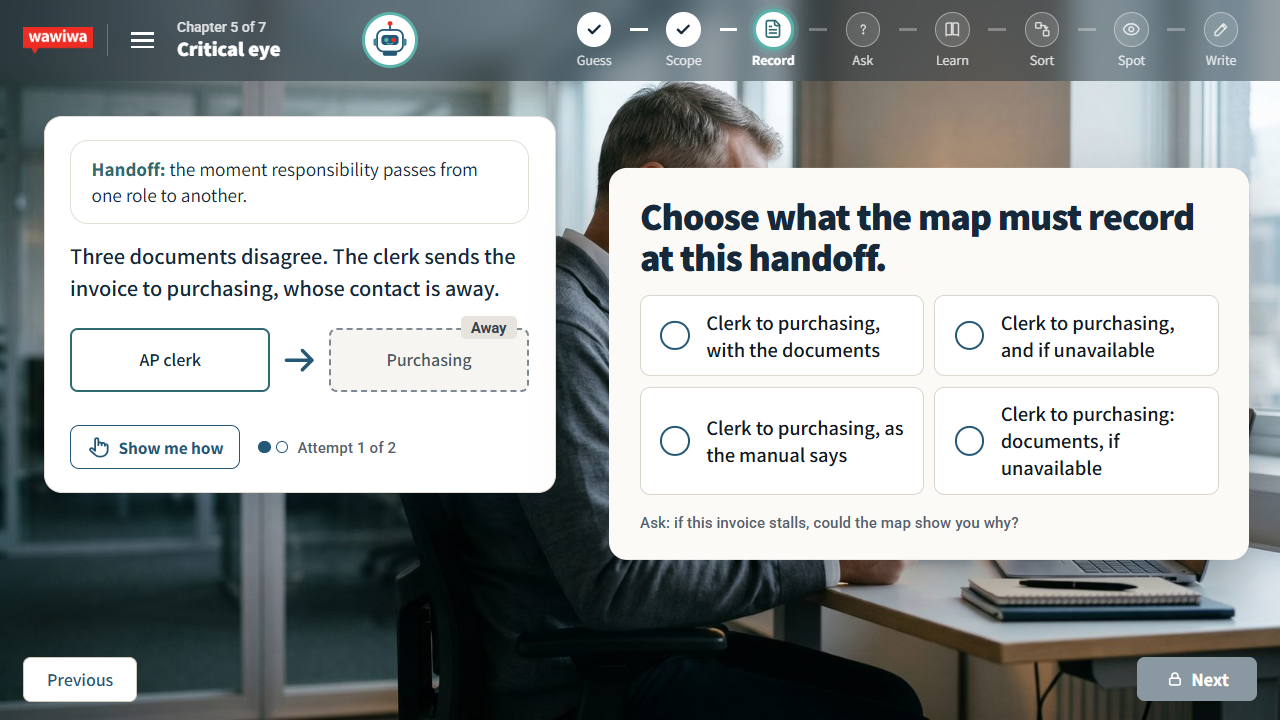
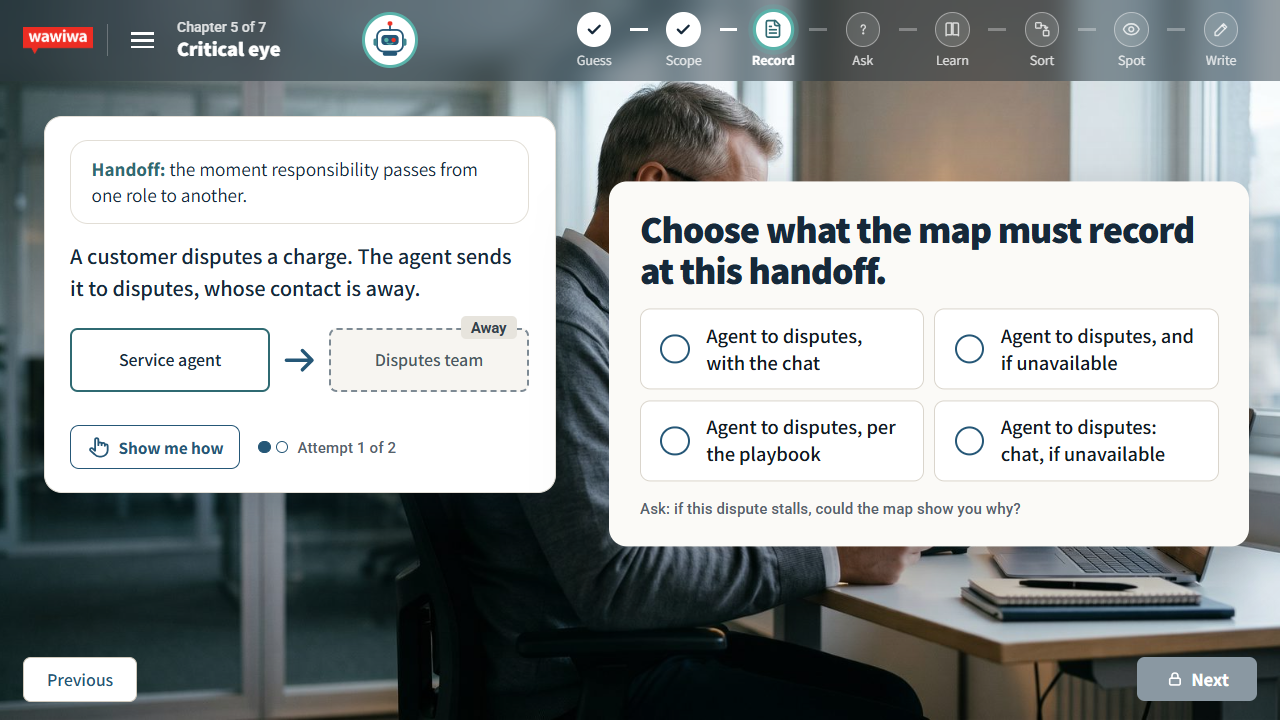
PP1: stretch case balance, S14 and S17 case e move to the fintech

diff --git a/enterprise-ai-implementation/eai-m1l4-selfstudy/review/pp1/VARIANTS.md b/enterprise-ai-implementation/eai-m1l4-selfstudy/review/pp1/VARIANTS.md
@@ -1,6 +1,6 @@
 # PP1 variants: Support | Core | Stretch
 
-Built from content/l4-slice.json by tools/pp1-variants-md.mjs (2026-10-26). Core = the screen as it was, untouched. ✔ = the correct answer; ✘ = the line a wrong placement shows. Words = the screen's fullest view, counted as the check counts (instruction and buttons excluded). The instruction line is the same on all three levels.
+Built from content/l4-slice.json by tools/pp1-variants-md.mjs (2026-10-28). Core = the screen as it was, untouched. ✔ = the correct answer; ✘ = the line a wrong placement shows. Words = the screen's fullest view, counted as the check counts (instruction and buttons excluded). The instruction line is the same on all three levels.
 
 Same for every level: the template, layout, instruction, number of answers / cards / fields, the tracking id and Bloom level. S21 and S21R are not touched.
 
@@ -82,16 +82,16 @@ Goal g1 (Roles and handoffs) · decision / single · Bloom Analyze
 
 | | Support | Core | Stretch |
 |---|---|---|---|
-| Case / stem | *as core* | A question exceeds policy. It goes to the HR manager, who is away.<br>Visual: HR staff → HR manager (Away)<br>Band: Handoff: the moment responsibility passes from one role to another. | Three documents disagree. The clerk sends the invoice to purchasing, whose contact is away.<br>Visual: AP clerk → Purchasing (Away)<br>*(rest as core)* |
-| Hint | On a good map, every handoff is marked: from whom to whom, what passes, and what if the receiver is unavailable. | Think about the moment responsibility changes hands. | Ask: if this invoice stalls, could the map show you why? |
-| Option 1 | **a.** Sender, receiver, what passes<br>Missing: what if the receiver is unavailable. Here the manager is away, and the question waits. | **a.** A rule naming a backup manager<br>A rule nobody follows today hides the real gap. Ask what the map needs to show about the handoff itself. | **a.** Clerk to purchasing, with the documents<br>Sender, receiver and what passes are there. With the contact away, nobody can see where the invoice now waits. |
-| Option 2 | **b.** Sender, receiver, if unavailable<br>Missing: what passes. The manager gets the question without the history behind it. | **b.** From whom, to whom, what passes, if unavailable **✔ correct**<br>Field 4 now shows sender, receiver, what passes, and the unavailable case. Here nothing covers it, so Field 7 records it. | **b.** Clerk to purchasing, and if unavailable<br>The away case is there, but not what passes. Purchasing gets an invoice without knowing what disagrees. |
-| Option 3 | **c.** Sender, receiver, what passes, if unavailable **✔ correct**<br>All four parts of a handoff. Nothing covers the away case, so Field 7 records it. | **c.** Nothing: the manager knows the history<br>Never assume the receiver knows the history. What must travel with the question, and what if nobody is there to take it? | **c.** Clerk to purchasing, as the manual says<br>The manual shows how it should run. If today differs, the map hides the real gap. |
-| Option 4 | **d.** What passes, and if unavailable<br>Missing: who sends and who receives. The map cannot show where responsibility changes hands. | **d.** An AI agent to reroute questions<br>That tool does not exist today. Describe the handoff that does exist, as it runs now. | **d.** Clerk to purchasing: documents, if unavailable **✔ correct**<br>Sender, receiver, what passes, and the away case. Nobody covers today, so Field 7 records that. |
+| Case / stem | *as core* | A question exceeds policy. It goes to the HR manager, who is away.<br>Visual: HR staff → HR manager (Away)<br>Band: Handoff: the moment responsibility passes from one role to another. | A customer disputes a charge. The agent sends it to disputes, whose contact is away.<br>Visual: Service agent → Disputes team (Away)<br>*(rest as core)* |
+| Hint | On a good map, every handoff is marked: from whom to whom, what passes, and what if the receiver is unavailable. | Think about the moment responsibility changes hands. | Ask: if this dispute stalls, could the map show you why? |
+| Option 1 | **a.** Sender, receiver, what passes<br>Missing: what if the receiver is unavailable. Here the manager is away, and the question waits. | **a.** A rule naming a backup manager<br>A rule nobody follows today hides the real gap. Ask what the map needs to show about the handoff itself. | **a.** Agent to disputes, with the chat<br>Sender, receiver and what passes are there. With the contact away, nobody can see where the dispute now waits. |
+| Option 2 | **b.** Sender, receiver, if unavailable<br>Missing: what passes. The manager gets the question without the history behind it. | **b.** From whom, to whom, what passes, if unavailable **✔ correct**<br>Field 4 now shows sender, receiver, what passes, and the unavailable case. Here nothing covers it, so Field 7 records it. | **b.** Agent to disputes, and if unavailable<br>The away case is there, but not what passes. The disputes team starts without the customer's story. |
+| Option 3 | **c.** Sender, receiver, what passes, if unavailable **✔ correct**<br>All four parts of a handoff. Nothing covers the away case, so Field 7 records it. | **c.** Nothing: the manager knows the history<br>Never assume the receiver knows the history. What must travel with the question, and what if nobody is there to take it? | **c.** Agent to disputes, per the playbook<br>The playbook shows how it should run. If today differs, the map hides the real gap. |
+| Option 4 | **d.** What passes, and if unavailable<br>Missing: who sends and who receives. The map cannot show where responsibility changes hands. | **d.** An AI agent to reroute questions<br>That tool does not exist today. Describe the handoff that does exist, as it runs now. | **d.** Agent to disputes: chat, if unavailable **✔ correct**<br>Sender, receiver, what passes, and the away case. Nobody covers today, so Field 7 records that. |
 | Coach tip | Picture the manager away for a week. What would the next person need to know? | Picture the manager away for a week. What would the next person need to know? | Picture the contact away for a week. What would the next person need to know? |
-| Sources | s17, s20, s27 | s27, s16, HR canon Fields 4, 7, 'Away' is constructed | s16, s27, s29, s30, s34 |
-| pilotCopy | no |  | the handoff (clerk to purchasing, contact away) and the finance manual are constructed from the car-company case |
-| Words on screen | 47 (allowance 54) | 54 (allowance 54) | 53 (allowance 54) |
+| Sources | s17, s20, s27 | s27, s16, HR canon Fields 4, 7, 'Away' is constructed | s25, s26, s27, s34 |
+| pilotCopy | no |  | the handoff (service agent to the disputes team, contact away) and the playbook are constructed from the fintech case |
+| Words on screen | 47 (allowance 54) | 54 (allowance 54) | 54 (allowance 54) |
 
 ## S15: Choose the first question to ask about this bottleneck.
 
@@ -138,7 +138,7 @@ Goal g5 (Where AI fits) · decision / cases · Bloom Analyze
 | Case 2 | **b.** Fields 6 to 8 are empty: the mapper ran out of time. → **Rushed mapping**<br>✔ Rushing the mapping itself. The hard fields hold the findings Lesson 5 needs.<br>✘ The map may match today. Look at which fields stayed empty, and why. | **b.** The map shows how HR intends requests to flow, not how they flow today. → **Ideal, not actual**<br>✔ The map now describes a wish. Every gap on a normal day stays hidden.<br>✘ Nothing was skipped or automated. Compare the map with a normal day in HR. | **b.** Payment now runs from the receipt record. The map still shows invoice matching. → **Not updated**<br>✔ The map was right once. Lesson 5 would build on a step that no longer exists.<br>✘ The map matched the process when drawn. What happened since? |
 | Case 3 | **c.** HR added a fourth channel last month. The map shows three. → **Not updated**<br>✔ Neglecting to update the map after changes. It was right once, and now it is not.<br>✘ The map was accurate when drawn. What happened after it? | **c.** A chatbot is planned for the three channels exactly as they run today. → **Automating a broken process**<br>✔ The most critical mistake. Three channels with no organized system get faster, and the disorder grows with them.<br>✘ The map may be accurate. Look at what is about to be done with the process. | **c.** Software will match the three documents faster. Nobody asked why matching exists. → **Automating a broken process**<br>✔ The most critical mistake. The car company removed this step; speeding it up keeps the mess.<br>✘ The map may be accurate. Look at what is about to be done with the step. |
 | Case 4 | **d.** AI will answer the WhatsApp questions, with nothing else changed. → **Automating a broken process**<br>✔ Automating a broken process, the most critical mistake. The disorder runs faster.<br>✘ The map may be fine. Look at what is about to be done to the process. | **d.** HR moved to one request form. The map still shows three channels. → **Not updated**<br>✔ The map was right once. Lesson 5 would now build on a process that no longer exists.<br>✘ Something changed after the map was drawn. Which mistake follows a change? | **d.** The fintech mapped every service step, with no question it should answer. → **No clear goal**<br>✔ Without a question, nobody can say which steps or boundaries matter. The map grows and decides nothing.<br>✘ The map may be accurate and complete. Ask what it was drawn to decide. |
-| Case 5 | **e.** Nobody said what the HR map should help decide. → **No clear goal**<br>✔ No clear goal for the mapping. Without a question, the map decides nothing.<br>✘ The map may be accurate and complete. Ask what it was drawn for. | **e.** Someone mapped every HR task 'to have it documented'. Nobody said what it should decide. → **No clear goal**<br>✔ Without a question, nobody can say which process or boundaries matter. The map grows and decides nothing.<br>✘ The map may be accurate and complete. Ask what it was drawn to decide. | **e.** Due in an hour, the AP map lists steps but no controls or gaps. → **Rushed mapping**<br>✔ Controls and gaps are where the findings live. Skipping them leaves Lesson 5 nothing to protect against.<br>✘ The steps may be accurate. Look at what the deadline cut. |
+| Case 5 | **e.** Nobody said what the HR map should help decide. → **No clear goal**<br>✔ No clear goal for the mapping. Without a question, the map decides nothing.<br>✘ The map may be accurate and complete. Ask what it was drawn for. | **e.** Someone mapped every HR task 'to have it documented'. Nobody said what it should decide. → **No clear goal**<br>✔ Without a question, nobody can say which process or boundaries matter. The map grows and decides nothing.<br>✘ The map may be accurate and complete. Ask what it was drawn to decide. | **e.** Due in an hour, the fintech's map lists steps but no controls or gaps. → **Rushed mapping**<br>✔ Controls and gaps are where the findings live. Skipping them leaves Lesson 5 nothing to protect against.<br>✘ The steps may be accurate. Look at what the deadline cut. |
 | Sources | s16, s17, s34 | s34, s16, s17, s21, s6, Cases constructed (FL12); D is a fictional later change | s16, s21, s25, s29, s30, s34 |
 | pilotCopy | case c (a fourth channel added last month) is a constructed later change, as the core's case d |  | the cases are constructed from the car-company and fintech cases (skipped steps, mapping deadline) |
 | Words on screen | 71 (allowance 72) | 67 (allowance 72) | 72 (allowance 72) |

diff --git a/enterprise-ai-implementation/eai-m1l4-selfstudy/review/pp1/REPORT.md b/enterprise-ai-implementation/eai-m1l4-selfstudy/review/pp1/REPORT.md
@@ -26,6 +26,7 @@ Weekly usage before: 27% (all models)
 ## Where stretch kept the HR case, and other content calls
 - **S12**: both levels keep the full HR map. It is the canon the chapter built, and S21R's "Revisit the full HR map" links there. Stretch is harder only through the hint (a self-question) and less directive field feedback. Its context line reads "The full HR map from this chapter's demo" because stretch learners did S09-S11 on accounts payable.
 - **S09 stretch** does fit the AP case (the card deck is text only).
+- **Stretch case balance** (Noy left it to me, 28 Oct): ch3 stretch stays on accounts payable (S09-S11 build one map, Fields 5, 7, 8). Ch4 stretch alternates: S14 moved to the fintech (service agent to the disputes team, contact away; constructed, see pilotCopy), S15 stays on the car company's own bottleneck, S16 fintech, S17 cases a-c AP and d-e fintech. A journey 1 learner meets AP in S09-S11, S15 and part of S17.
 - **S11 stretch** has no explain band: with the approved case line and the long option d, the panel ran 22px over the 41cqw limit. The band is the three-part rule, which the stretch hint holds back on purpose. The template's no-band layout puts the Field 8 label above the heading. The approved text is unchanged.
 - **Coach tip**: overridden only where the case changes (S10 stretch, S14 stretch), as screen content. The coach code is untouched.
 - **pilotCopy** on S09 / S10 / S11 / S14 / S17 stretch and S17 support (constructed details, estimated minutes): see VARIANTS.md.
@@ -41,7 +42,7 @@ Weekly usage before: 27% (all models)
 ## Open questions for Noy
 1. **L4_PATH type**: the work-order says type choice with the response support / core / stretch. SCORM 1.2 allows only single characters for choice (the mock rejected it), so I send type fill-in with the word. Keep this, or use choice with s / c / x?
 2. **S11 stretch without the explain band**: OK? The alternative is to shorten the approved answers.
-3. **Stretch cases**: S09 to S11 and S14, S15, S17 use accounts payable; S16 uses the fintech. A journey 1 learner meets AP six times. Is that wanted, or should part of it move to the fintech?
+3. **Stretch cases**: settled 28 Oct, see "Stretch case balance" above.
 4. **S14 support**: the options use "Sender, receiver" instead of "From whom, to whom", because the 2x2 grid fits only shorter lines. OK?
 5. **Walk**: the walk now pins `?level=core`, because its learner alone would land on support. Journeys are tested only in test:adapt. OK?
 
